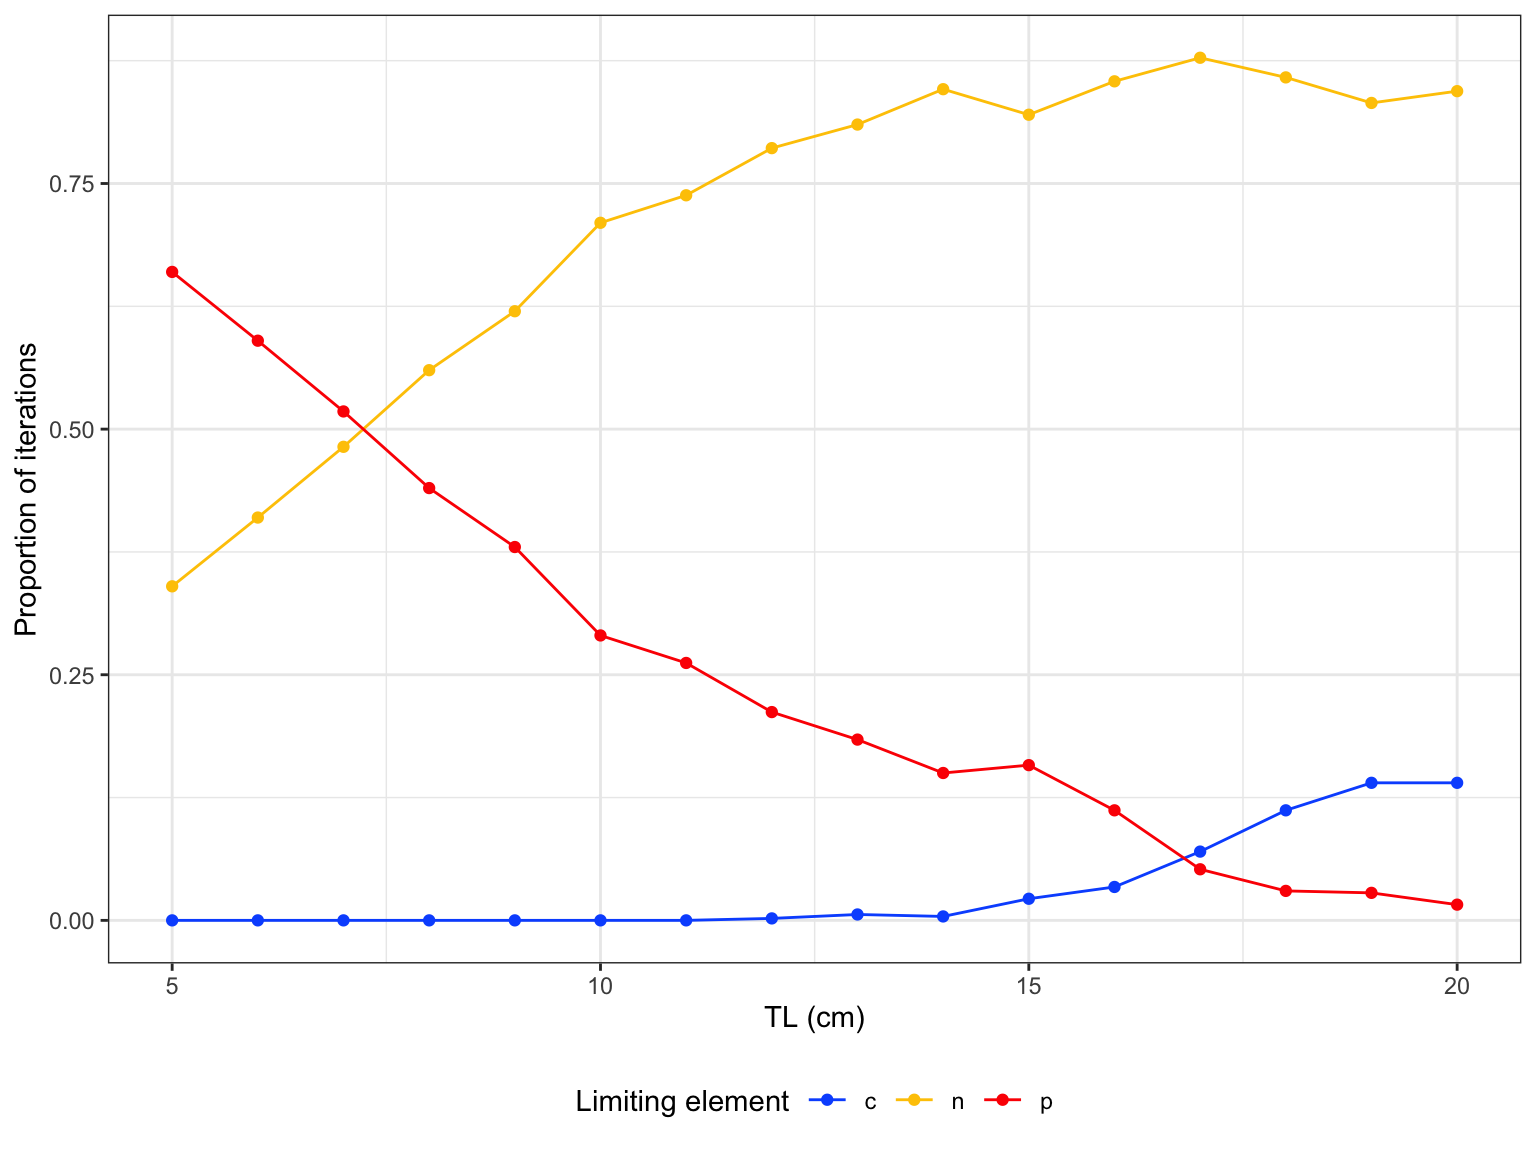
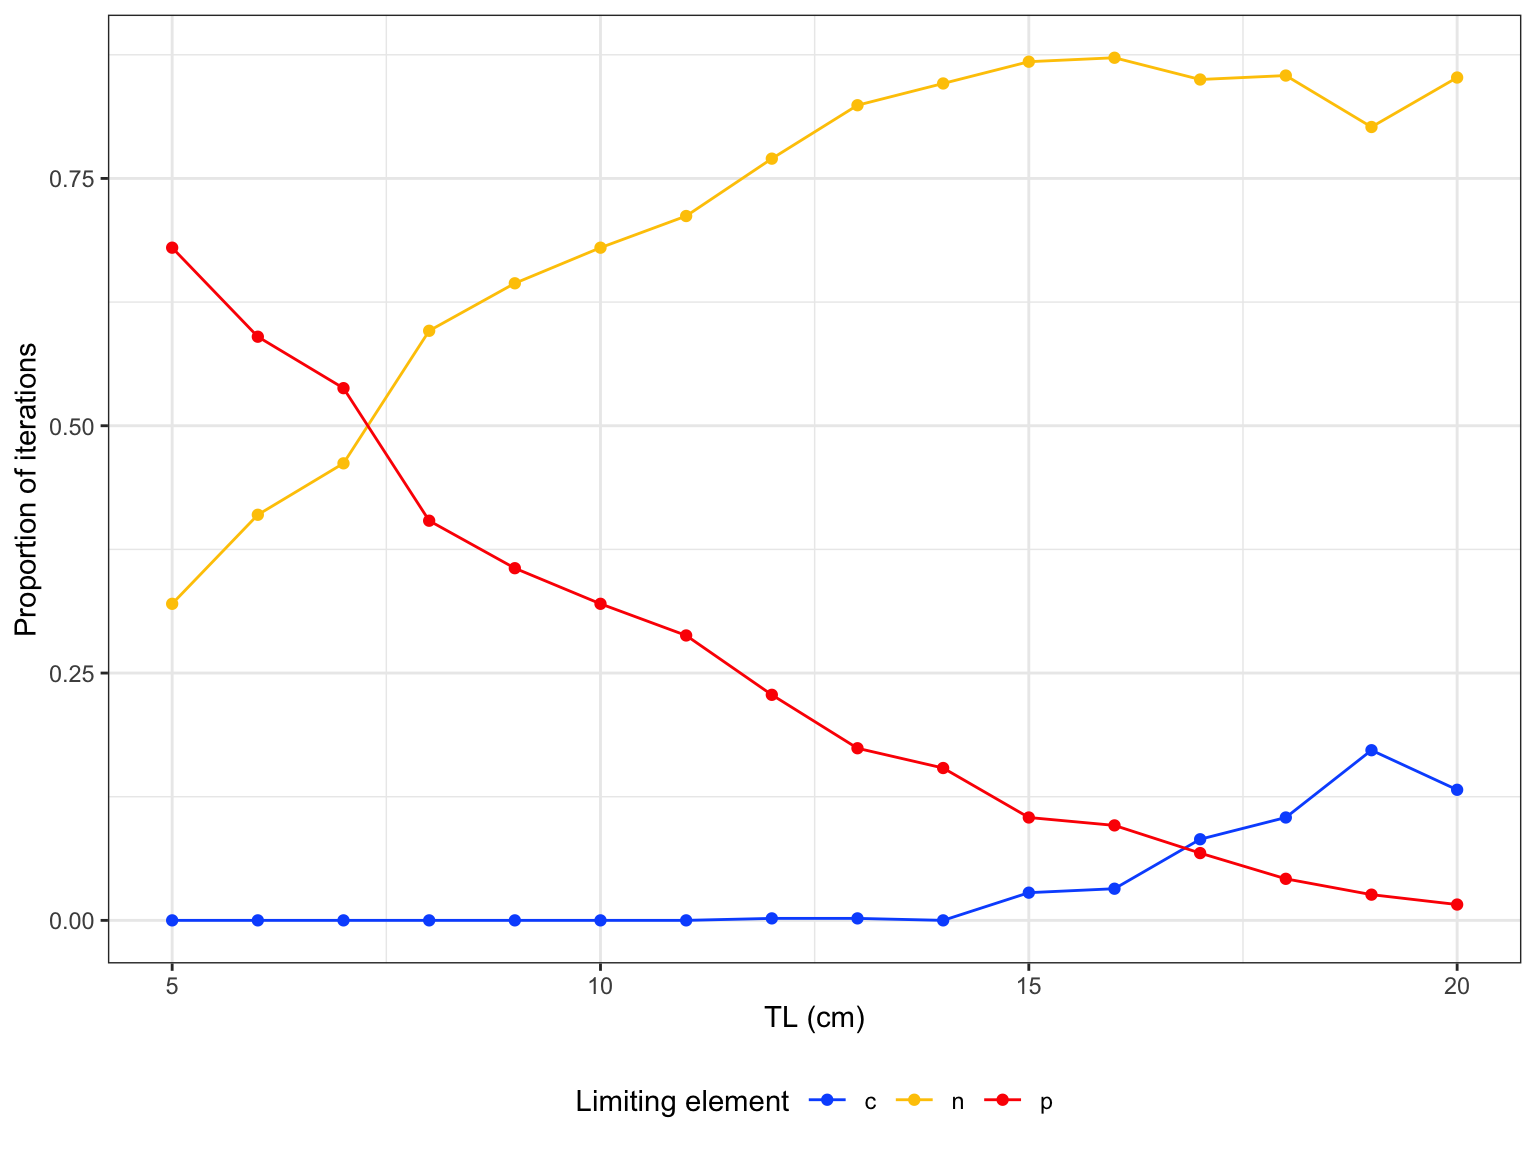
Built site for fishflux: 0.0.0.9001@748f23b

diff --git a/articles/intro_to_fishflux.html b/articles/intro_to_fishflux.html
@@ -411,7 +411,7 @@ Elemental stoichiometry of diet
 <span class="co">#&gt;            species    t0 Linf     k     asp troph   lwa_m      lwa_sd lwb_m</span>
 <span class="co">#&gt; 1 Zebrasoma scopas -0.49 13.3 0.425 2.02091     2 0.02455 0.002627551  2.98</span>
 <span class="co">#&gt;      lwb_sd     mdw_m        f0_m        f0_sd alpha_m   alpha_sd</span>
-<span class="co">#&gt; 1 0.0255102 0.2504833 0.001517989 3.251194e-10    0.77 0.05286288</span>
+<span class="co">#&gt; 1 0.0255102 0.2504833 0.001517989 2.990693e-10    0.77 0.05286288</span>
 </pre></div>
 
 <p>All other parameters have to be provided by the user. For more information on how to acquire these parameters, take a look at (“this paper” add reference to methods paper).</p>
@@ -432,56 +432,56 @@ Elemental stoichiometry of diet
 <div class="sourceCode" id="cb10"><pre class="downlit">
 <span class="kw">fishflux</span>::<span class="fu"><a href="../reference/extract.html">extract</a></span>(<span class="kw">model</span>, <span class="fu"><a href="https://rdrr.io/r/base/c.html">c</a></span>(<span class="st">"Fn"</span>,<span class="st">"Fp"</span>))
 <span class="co">#&gt;    TL      Fn_mean    Fn_median        Fn_sd      Fn_2.5%    Fn_97.5%</span>
-<span class="co">#&gt; 1   5 0.0009281694 0.0008659754 0.0004569311 0.0002199826 0.001956606</span>
-<span class="co">#&gt; 2   6 0.0012819426 0.0011783659 0.0005798542 0.0004133299 0.002684022</span>
-<span class="co">#&gt; 3   7 0.0018694803 0.0018053892 0.0008218627 0.0005521829 0.003561672</span>
-<span class="co">#&gt; 4   8 0.0025204011 0.0023085524 0.0012995009 0.0005735142 0.005840968</span>
-<span class="co">#&gt; 5   9 0.0033384245 0.0031103938 0.0016918953 0.0006539831 0.007254373</span>
-<span class="co">#&gt; 6  10 0.0046335154 0.0042371487 0.0023601917 0.0010801570 0.010350598</span>
-<span class="co">#&gt; 7  11 0.0057504984 0.0050394494 0.0031808788 0.0013548120 0.013801743</span>
-<span class="co">#&gt; 8  12 0.0073421369 0.0067742768 0.0041662015 0.0015701969 0.016894169</span>
-<span class="co">#&gt; 9  13 0.0088172976 0.0077278045 0.0053759257 0.0018505833 0.021089698</span>
-<span class="co">#&gt; 10 14 0.0114721462 0.0098725791 0.0069764626 0.0027319266 0.027900179</span>
-<span class="co">#&gt; 11 15 0.0135980894 0.0115994934 0.0093801412 0.0028752909 0.038594147</span>
-<span class="co">#&gt; 12 16 0.0168944415 0.0147250359 0.0105112084 0.0032385315 0.041179640</span>
-<span class="co">#&gt; 13 17 0.0196402448 0.0170246379 0.0121009149 0.0045326671 0.050115652</span>
-<span class="co">#&gt; 14 18 0.0233476791 0.0204928565 0.0150033839 0.0054589316 0.062057033</span>
-<span class="co">#&gt; 15 19 0.0273114734 0.0235886012 0.0175179466 0.0063404065 0.067872156</span>
-<span class="co">#&gt; 16 20 0.0325882222 0.0277891315 0.0202686529 0.0079621075 0.084653380</span>
+<span class="co">#&gt; 1   5 0.0008763567 0.0008331295 0.0004167009 0.0002072475 0.001907906</span>
+<span class="co">#&gt; 2   6 0.0013294734 0.0012461063 0.0006086608 0.0003783124 0.002673139</span>
+<span class="co">#&gt; 3   7 0.0018101258 0.0017019645 0.0008413234 0.0004574175 0.003700676</span>
+<span class="co">#&gt; 4   8 0.0025271018 0.0023627110 0.0011743480 0.0007489656 0.005372224</span>
+<span class="co">#&gt; 5   9 0.0033990373 0.0030055965 0.0017520733 0.0007828752 0.007566119</span>
+<span class="co">#&gt; 6  10 0.0045734343 0.0040848251 0.0024999963 0.0011298113 0.010709364</span>
+<span class="co">#&gt; 7  11 0.0056456881 0.0049372287 0.0031659493 0.0011797497 0.013463896</span>
+<span class="co">#&gt; 8  12 0.0070757019 0.0062076398 0.0041012942 0.0015956317 0.016736939</span>
+<span class="co">#&gt; 9  13 0.0090665556 0.0081424194 0.0050690225 0.0019019434 0.021660942</span>
+<span class="co">#&gt; 10 14 0.0114810399 0.0103014812 0.0068840912 0.0022389726 0.028566922</span>
+<span class="co">#&gt; 11 15 0.0139201547 0.0121157485 0.0087024063 0.0023993317 0.033438810</span>
+<span class="co">#&gt; 12 16 0.0164966394 0.0146687656 0.0106387784 0.0031582388 0.039702839</span>
+<span class="co">#&gt; 13 17 0.0203433363 0.0174205581 0.0131194557 0.0038856953 0.052750184</span>
+<span class="co">#&gt; 14 18 0.0242562107 0.0206060818 0.0160034828 0.0050163464 0.062154269</span>
+<span class="co">#&gt; 15 19 0.0262512104 0.0221188780 0.0172826840 0.0061043430 0.070251778</span>
+<span class="co">#&gt; 16 20 0.0311110634 0.0260610166 0.0195485788 0.0081087478 0.078452600</span>
 <span class="co">#&gt;          Fn_25%      Fn_75%      Fp_mean    Fp_median        Fp_sd      Fp_2.5%</span>
-<span class="co">#&gt; 1  0.0006098399 0.001177332 8.342372e-05 4.476996e-05 0.0001042289 2.442238e-06</span>
-<span class="co">#&gt; 2  0.0008765401 0.001625477 1.624133e-04 8.568733e-05 0.0001878046 5.370838e-06</span>
-<span class="co">#&gt; 3  0.0012444900 0.002383563 2.742967e-04 1.507626e-04 0.0002938958 8.982261e-06</span>
-<span class="co">#&gt; 4  0.0016463066 0.003167944 4.756463e-04 2.815605e-04 0.0004991528 1.642529e-05</span>
-<span class="co">#&gt; 5  0.0021497741 0.004190879 7.368006e-04 4.785230e-04 0.0006974520 3.028640e-05</span>
-<span class="co">#&gt; 6  0.0029549240 0.005928661 1.134010e-03 8.512178e-04 0.0009566593 5.010628e-05</span>
-<span class="co">#&gt; 7  0.0033379343 0.007377014 1.547431e-03 1.170286e-03 0.0012673631 1.144489e-04</span>
-<span class="co">#&gt; 8  0.0039461089 0.009955279 2.140757e-03 1.773340e-03 0.0016909116 1.718569e-04</span>
-<span class="co">#&gt; 9  0.0047229149 0.011768260 2.716215e-03 2.195573e-03 0.0021140953 1.954099e-04</span>
-<span class="co">#&gt; 10 0.0060890675 0.015629586 3.805222e-03 3.086531e-03 0.0028227781 4.221331e-04</span>
-<span class="co">#&gt; 11 0.0063229858 0.018261827 4.705750e-03 3.869831e-03 0.0037605951 4.365811e-04</span>
-<span class="co">#&gt; 12 0.0085259859 0.023272454 6.105803e-03 5.215040e-03 0.0041804130 6.826402e-04</span>
-<span class="co">#&gt; 13 0.0099568078 0.026725322 7.375689e-03 6.234409e-03 0.0048734543 1.271907e-03</span>
-<span class="co">#&gt; 14 0.0119001184 0.031605635 9.060092e-03 7.827924e-03 0.0060207850 1.877304e-03</span>
-<span class="co">#&gt; 15 0.0127908758 0.038023313 1.084308e-02 9.309632e-03 0.0069654747 2.525014e-03</span>
-<span class="co">#&gt; 16 0.0162165097 0.043851835 1.296883e-02 1.117617e-02 0.0080593285 3.201843e-03</span>
+<span class="co">#&gt; 1  0.0005623215 0.001128193 7.996274e-05 4.308892e-05 9.977273e-05 2.157825e-06</span>
+<span class="co">#&gt; 2  0.0008862085 0.001692969 1.653318e-04 8.408587e-05 1.998154e-04 5.757661e-06</span>
+<span class="co">#&gt; 3  0.0012342375 0.002225683 2.735513e-04 1.525167e-04 3.165720e-04 6.886496e-06</span>
+<span class="co">#&gt; 4  0.0016848813 0.003184619 4.806026e-04 3.085175e-04 4.544232e-04 2.517127e-05</span>
+<span class="co">#&gt; 5  0.0021727430 0.004344851 7.434778e-04 4.929182e-04 7.175206e-04 2.923487e-05</span>
+<span class="co">#&gt; 6  0.0028002469 0.005729464 1.145684e-03 8.470945e-04 1.029037e-03 5.646100e-05</span>
+<span class="co">#&gt; 7  0.0035088002 0.007249966 1.524971e-03 1.146028e-03 1.307217e-03 1.231598e-04</span>
+<span class="co">#&gt; 8  0.0038846786 0.009600751 2.022426e-03 1.611760e-03 1.635731e-03 1.300584e-04</span>
+<span class="co">#&gt; 9  0.0053763443 0.011746096 2.841015e-03 2.445621e-03 2.085214e-03 1.764827e-04</span>
+<span class="co">#&gt; 10 0.0060497900 0.015597567 3.837913e-03 3.247272e-03 2.838676e-03 3.044507e-04</span>
+<span class="co">#&gt; 11 0.0071941565 0.019149577 4.847549e-03 4.103347e-03 3.446770e-03 4.079099e-04</span>
+<span class="co">#&gt; 12 0.0079233972 0.022802532 6.016364e-03 5.216510e-03 4.219291e-03 8.488957e-04</span>
+<span class="co">#&gt; 13 0.0101005867 0.027379664 7.679389e-03 6.483849e-03 5.251495e-03 1.139482e-03</span>
+<span class="co">#&gt; 14 0.0118363459 0.032603021 9.407792e-03 8.099976e-03 6.389119e-03 1.745634e-03</span>
+<span class="co">#&gt; 15 0.0128045353 0.035209224 1.046295e-02 8.692670e-03 6.926892e-03 2.395613e-03</span>
+<span class="co">#&gt; 16 0.0155668219 0.041216910 1.234885e-02 1.035470e-02 7.740718e-03 3.180427e-03</span>
 <span class="co">#&gt;        Fp_97.5%       Fp_25%       Fp_75%</span>
-<span class="co">#&gt; 1  0.0003636682 2.309581e-05 9.173055e-05</span>
-<span class="co">#&gt; 2  0.0006584219 4.336034e-05 2.169618e-04</span>
-<span class="co">#&gt; 3  0.0010934448 7.243350e-05 3.930033e-04</span>
-<span class="co">#&gt; 4  0.0017098075 1.337231e-04 6.617568e-04</span>
-<span class="co">#&gt; 5  0.0025167948 2.016068e-04 1.160095e-03</span>
-<span class="co">#&gt; 6  0.0035044677 3.854189e-04 1.654114e-03</span>
-<span class="co">#&gt; 7  0.0046112883 5.160084e-04 2.276485e-03</span>
-<span class="co">#&gt; 8  0.0060888384 7.168290e-04 3.096195e-03</span>
-<span class="co">#&gt; 9  0.0078415927 1.126542e-03 3.830504e-03</span>
-<span class="co">#&gt; 10 0.0106340646 1.642232e-03 5.380117e-03</span>
-<span class="co">#&gt; 11 0.0141158779 1.737974e-03 6.634556e-03</span>
-<span class="co">#&gt; 12 0.0161140540 2.758546e-03 8.751484e-03</span>
-<span class="co">#&gt; 13 0.0193733987 3.475924e-03 1.032715e-02</span>
-<span class="co">#&gt; 14 0.0241340519 4.352340e-03 1.230944e-02</span>
-<span class="co">#&gt; 15 0.0264322444 5.051853e-03 1.519994e-02</span>
-<span class="co">#&gt; 16 0.0334280069 6.451905e-03 1.766444e-02</span>
+<span class="co">#&gt; 1  0.0003651642 2.357287e-05 8.976973e-05</span>
+<span class="co">#&gt; 2  0.0007197461 4.415683e-05 2.155140e-04</span>
+<span class="co">#&gt; 3  0.0011222137 6.814511e-05 3.577008e-04</span>
+<span class="co">#&gt; 4  0.0016177419 1.451713e-04 7.194441e-04</span>
+<span class="co">#&gt; 5  0.0026456524 2.146887e-04 1.096622e-03</span>
+<span class="co">#&gt; 6  0.0040716694 3.633162e-04 1.669569e-03</span>
+<span class="co">#&gt; 7  0.0046805878 4.948769e-04 2.268588e-03</span>
+<span class="co">#&gt; 8  0.0059286410 7.052732e-04 3.000828e-03</span>
+<span class="co">#&gt; 9  0.0076947013 1.165106e-03 4.039465e-03</span>
+<span class="co">#&gt; 10 0.0106848660 1.502793e-03 5.435427e-03</span>
+<span class="co">#&gt; 11 0.0126911552 2.061099e-03 7.131592e-03</span>
+<span class="co">#&gt; 12 0.0152947351 2.644750e-03 8.594434e-03</span>
+<span class="co">#&gt; 13 0.0209455922 3.554130e-03 1.053072e-02</span>
+<span class="co">#&gt; 14 0.0246698682 4.414900e-03 1.255352e-02</span>
+<span class="co">#&gt; 15 0.0274820579 4.967663e-03 1.400364e-02</span>
+<span class="co">#&gt; 16 0.0313638050 6.217369e-03 1.642787e-02</span>
 </pre></div>
 
 </div>
@@ -503,45 +503,45 @@ Elemental stoichiometry of diet
 #&gt; 6  10        c    0.000
 #&gt; 7  11        c    0.000
 #&gt; 8  12        c    0.002
-#&gt; 9  13        c    0.006
-#&gt; 10 14        c    0.004
-#&gt; 11 15        c    0.022
-#&gt; 12 16        c    0.034
-#&gt; 13 17        c    0.070
-#&gt; 14 18        c    0.112
-#&gt; 15 19        c    0.140
-#&gt; 16 20        c    0.140
-#&gt; 17  5        n    0.340
+#&gt; 9  13        c    0.002
+#&gt; 10 14        c    0.000
+#&gt; 11 15        c    0.028
+#&gt; 12 16        c    0.032
+#&gt; 13 17        c    0.082
+#&gt; 14 18        c    0.104
+#&gt; 15 19        c    0.172
+#&gt; 16 20        c    0.132
+#&gt; 17  5        n    0.320
 #&gt; 18  6        n    0.410
-#&gt; 19  7        n    0.482
-#&gt; 20  8        n    0.560
-#&gt; 21  9        n    0.620
-#&gt; 22 10        n    0.710
-#&gt; 23 11        n    0.738
-#&gt; 24 12        n    0.786
-#&gt; 25 13        n    0.810
+#&gt; 19  7        n    0.462
+#&gt; 20  8        n    0.596
+#&gt; 21  9        n    0.644
+#&gt; 22 10        n    0.680
+#&gt; 23 11        n    0.712
+#&gt; 24 12        n    0.770
+#&gt; 25 13        n    0.824
 #&gt; 26 14        n    0.846
-#&gt; 27 15        n    0.820
-#&gt; 28 16        n    0.854
-#&gt; 29 17        n    0.878
-#&gt; 30 18        n    0.858
-#&gt; 31 19        n    0.832
-#&gt; 32 20        n    0.844
-#&gt; 33  5        p    0.660
+#&gt; 27 15        n    0.868
+#&gt; 28 16        n    0.872
+#&gt; 29 17        n    0.850
+#&gt; 30 18        n    0.854
+#&gt; 31 19        n    0.802
+#&gt; 32 20        n    0.852
+#&gt; 33  5        p    0.680
 #&gt; 34  6        p    0.590
-#&gt; 35  7        p    0.518
-#&gt; 36  8        p    0.440
-#&gt; 37  9        p    0.380
-#&gt; 38 10        p    0.290
-#&gt; 39 11        p    0.262
-#&gt; 40 12        p    0.212
-#&gt; 41 13        p    0.184
-#&gt; 42 14        p    0.150
-#&gt; 43 15        p    0.158
-#&gt; 44 16        p    0.112
-#&gt; 45 17        p    0.052
-#&gt; 46 18        p    0.030
-#&gt; 47 19        p    0.028
+#&gt; 35  7        p    0.538
+#&gt; 36  8        p    0.404
+#&gt; 37  9        p    0.356
+#&gt; 38 10        p    0.320
+#&gt; 39 11        p    0.288
+#&gt; 40 12        p    0.228
+#&gt; 41 13        p    0.174
+#&gt; 42 14        p    0.154
+#&gt; 43 15        p    0.104
+#&gt; 44 16        p    0.096
+#&gt; 45 17        p    0.068
+#&gt; 46 18        p    0.042
+#&gt; 47 19        p    0.026
 #&gt; 48 20        p    0.016
 ## Plot one variable:
 fishflux::plot_cnp(model,  y = "Fp", x = "tl", probs = c(0.5, 0.8, 0.95))</a></code></pre>
@@ -562,11 +562,11 @@ fishflux::plot_cnp(model,  y = "Fp", x = "tl", probs = c(0.5, 0.8, 0.95))</a></c
 </pre></div>
 <p><img src="intro_to_fishflux_files/figure-html/unnamed-chunk-10-1.png" width="768"></p>
 <pre><code>#&gt;              Fn_CI        Fp_CI        Ic_CI
-#&gt; Dn_sd 1.990538e-10 0.0002590937 9.253345e-03
-#&gt; Dp_sd 1.884552e-10 0.0008074567 1.982663e-09
-#&gt; Qn_sd 2.025775e-03 0.0007905962 2.823558e-02
-#&gt; Qp_sd 2.024427e-10 0.0007396764 2.060859e-09
-#&gt; k_sd  1.959368e-10 0.0001082031 1.040415e-02</code></pre>
+#&gt; Dn_sd 2.109878e-10 0.0002648946 9.460522e-03
+#&gt; Dp_sd 1.901099e-10 0.0007975301 1.976839e-09
+#&gt; Qn_sd 1.912428e-03 0.0007463603 2.665572e-02
+#&gt; Qp_sd 1.969249e-10 0.0006762772 2.072392e-09
+#&gt; k_sd  1.992730e-10 0.0001077154 1.035725e-02</code></pre>
 
 </div>
 </div>

diff --git a/reference/extract.html b/reference/extract.html
@@ -174,19 +174,19 @@
     <h2 class="hasAnchor" id="examples"><a class="anchor" href="#examples"></a>Examples</h2>
     <pre class="examples"><div class='input'><span class='kw'>model</span> <span class='op'>&lt;-</span> <span class='fu'><a href='https://rdrr.io/pkg/fishflux/man/cnp_model_mcmc.html'>cnp_model_mcmc</a></span>(TL = <span class='fl'>5</span><span class='op'>:</span><span class='fl'>10</span>, param = <span class='fu'><a href='https://rdrr.io/r/base/list.html'>list</a></span>(Qc_m = <span class='fl'>40</span>, Qn_m = <span class='fl'>10</span>, Qp_m = <span class='fl'>4</span>))
 <span class='fu'><a href='https://rdrr.io/pkg/fishflux/man/extract.html'>extract</a></span>(<span class='kw'>model</span>, <span class='fu'><a href='https://rdrr.io/r/base/c.html'>c</a></span>(<span class='st'>"Fn"</span>,<span class='st'>"Fp"</span>))</div><div class='output co'>#&gt;   TL      Fn_mean    Fn_median        Fn_sd      Fn_2.5%     Fn_97.5%
-#&gt; 1  5 0.0006047886 0.0006047886 6.190406e-12 0.0006047886 0.0006047886
-#&gt; 2  6 0.0010610097 0.0010610097 1.008557e-11 0.0010610097 0.0010610097
-#&gt; 3  7 0.0017065393 0.0017065393 1.765377e-11 0.0017065393 0.0017065394
-#&gt; 4  8 0.0025757605 0.0025757605 2.526267e-11 0.0025757604 0.0025757605
-#&gt; 5  9 0.0037034689 0.0037034689 3.741374e-11 0.0037034688 0.0037034690
-#&gt; 6 10 0.0051248251 0.0051248251 4.943002e-11 0.0051248250 0.0051248252
+#&gt; 1  5 0.0006047886 0.0006047886 5.936782e-12 0.0006047886 0.0006047886
+#&gt; 2  6 0.0010610097 0.0010610097 1.087353e-11 0.0010610097 0.0010610097
+#&gt; 3  7 0.0017065393 0.0017065393 1.644702e-11 0.0017065393 0.0017065394
+#&gt; 4  8 0.0025757605 0.0025757605 2.654003e-11 0.0025757604 0.0025757605
+#&gt; 5  9 0.0037034689 0.0037034689 3.684001e-11 0.0037034688 0.0037034690
+#&gt; 6 10 0.0051248251 0.0051248251 5.279054e-11 0.0051248250 0.0051248252
 #&gt;         Fn_25%       Fn_75%      Fp_mean    Fp_median        Fp_sd      Fp_2.5%
-#&gt; 1 0.0006047886 0.0006047886 0.0001097965 0.0001097965 1.802891e-12 0.0001097965
-#&gt; 2 0.0010610097 0.0010610097 0.0002186548 0.0002186548 2.933919e-12 0.0002186548
-#&gt; 3 0.0017065393 0.0017065394 0.0003815567 0.0003815567 5.148087e-12 0.0003815567
-#&gt; 4 0.0025757605 0.0025757605 0.0006096826 0.0006096826 7.370153e-12 0.0006096826
-#&gt; 5 0.0037034689 0.0037034689 0.0009143614 0.0009143614 1.092804e-11 0.0009143614
-#&gt; 6 0.0051248250 0.0051248251 0.0013070515 0.0013070515 1.440788e-11 0.0013070515
+#&gt; 1 0.0006047886 0.0006047886 0.0001097965 0.0001097965 1.720275e-12 0.0001097965
+#&gt; 2 0.0010610097 0.0010610097 0.0002186548 0.0002186548 3.170711e-12 0.0002186548
+#&gt; 3 0.0017065393 0.0017065393 0.0003815567 0.0003815567 4.802289e-12 0.0003815567
+#&gt; 4 0.0025757605 0.0025757605 0.0006096826 0.0006096826 7.739894e-12 0.0006096826
+#&gt; 5 0.0037034689 0.0037034689 0.0009143614 0.0009143614 1.072914e-11 0.0009143614
+#&gt; 6 0.0051248250 0.0051248251 0.0013070515 0.0013070515 1.537532e-11 0.0013070515
 #&gt;       Fp_97.5%       Fp_25%       Fp_75%
 #&gt; 1 0.0001097965 0.0001097965 0.0001097965
 #&gt; 2 0.0002186548 0.0002186548 0.0002186548

diff --git a/reference/sensitivity.html b/reference/sensitivity.html
@@ -176,9 +176,9 @@ Plots a heatplot with width of the 95<!-- %CI of output predictions. --></p>
     <pre class="examples"><div class='input'><span class='fu'><a href='https://rdrr.io/r/base/library.html'>library</a></span>(<span class='kw'><a href='https://nschiett.github.io/fishflux'>fishflux</a></span>)
 <span class='fu'><a href='https://rdrr.io/pkg/fishflux/man/sensitivity.html'>sensitivity</a></span>(TL = <span class='fl'>10</span>, param = <span class='fu'><a href='https://rdrr.io/r/base/list.html'>list</a></span>(k_sd = <span class='fl'>0.2</span>, Dn_sd = <span class='fl'>0.2</span>, Dc_sd = <span class='fl'>0.1</span>),
             par = <span class='fu'><a href='https://rdrr.io/r/base/c.html'>c</a></span>(<span class='st'>"k_sd"</span>,<span class='st'>"Dn_sd"</span>,<span class='st'>"Dc_sd"</span>), out = <span class='fu'><a href='https://rdrr.io/r/base/c.html'>c</a></span>(<span class='st'>"Ic"</span>, <span class='st'>"In"</span>, <span class='st'>"Ip"</span>, <span class='st'>"Gc"</span>))</div><div class='output co'>#&gt; <span class='message'>Joining, by = "key"</span></div><div class='img'><img src='sensitivity-1.png' alt='' width='700' height='433' /></div><div class='output co'>#&gt;            Ic_CI        In_CI        Ip_CI        Gc_CI
-#&gt; k_sd  0.03087294 3.704753e-03 1.234918e-03 1.185521e-02
-#&gt; Dn_sd 0.21078069 4.744706e-03 8.431228e-03 7.335894e-11
-#&gt; Dc_sd 0.01066133 2.523668e-10 8.421826e-11 7.014613e-11</div><div class='input'></div></pre>
+#&gt; k_sd  0.03162443 3.794931e-03 1.264977e-03 1.214378e-02
+#&gt; Dn_sd 0.28513597 4.982573e-03 1.140544e-02 7.684180e-11
+#&gt; Dc_sd 0.01096698 2.470139e-10 8.263585e-11 7.279494e-11</div><div class='input'></div></pre>
   </div>
   <div class="col-md-3 hidden-xs hidden-sm" id="pkgdown-sidebar">
     <nav id="toc" data-toggle="toc" class="sticky-top">

diff --git a/reference/limitation.html b/reference/limitation.html
@@ -172,8 +172,8 @@
 #&gt; Chain 1: Iteration: 1000 / 1000 [100%]  (Sampling)
 #&gt; Chain 1: 
 #&gt; Chain 1:  Elapsed Time: 0 seconds (Warm-up)
-#&gt; Chain 1:                0.014086 seconds (Sampling)
-#&gt; Chain 1:                0.014086 seconds (Total)
+#&gt; Chain 1:                0.01342 seconds (Sampling)
+#&gt; Chain 1:                0.01342 seconds (Total)
 #&gt; Chain 1: </div><div class='input'><span class='fu'><a href='https://rdrr.io/pkg/fishflux/man/limitation.html'>limitation</a></span>(<span class='kw'>mod</span>)</div><div class='output co'>#&gt; <span class='message'>geom_path: Each group consists of only one observation. Do you need to adjust</span>
 #&gt; <span class='message'>the group aesthetic?</span></div><div class='img'><img src='limitation-1.png' alt='' width='700' height='433' /></div><div class='output co'>#&gt;   tl nutrient prop_lim
 #&gt; 1  5        c    0.000

diff --git a/reference/model_parameters.html b/reference/model_parameters.html
@@ -177,8 +177,8 @@
 #&gt; Chain 1: Iteration: 1000 / 1000 [100%]  (Sampling)
 #&gt; Chain 1: 
 #&gt; Chain 1:  Elapsed Time: 0 seconds (Warm-up)
-#&gt; Chain 1:                0.001448 seconds (Sampling)
-#&gt; Chain 1:                0.001448 seconds (Total)
+#&gt; Chain 1:                0.001402 seconds (Sampling)
+#&gt; Chain 1:                0.001402 seconds (Total)
 #&gt; Chain 1: </div><div class='output co'>#&gt;            species      t0  Linf     k     asp troph   lwa_m      lwa_sd lwb_m
 #&gt; 1 Scarus psittacus -0.6025 23.05 0.814 1.80877     2 0.01585 0.001760204  3.06
 #&gt;       lwb_sd     mdw_m        f0_m        f0_sd alpha_m   alpha_sd

diff --git a/reference/metabolism.html b/reference/metabolism.html
@@ -181,8 +181,8 @@ a covariate.</p>
 #&gt; Chain 1: Iteration: 1000 / 1000 [100%]  (Sampling)
 #&gt; Chain 1: 
 #&gt; Chain 1:  Elapsed Time: 0 seconds (Warm-up)
-#&gt; Chain 1:                0.001479 seconds (Sampling)
-#&gt; Chain 1:                0.001479 seconds (Total)
+#&gt; Chain 1:                0.001423 seconds (Sampling)
+#&gt; Chain 1:                0.001423 seconds (Total)
 #&gt; Chain 1: </div><div class='output co'>#&gt;          f0_m       f0_sd   alpha_m  alpha_sd        b0_m        b0_sd
 #&gt; 1 0.004528457 0.002004058 0.4256931 0.1035894 0.001415727 0.0006612888</div><div class='input'></div></pre>
   </div>

diff --git a/reference/cnp_model_mcmc.html b/reference/cnp_model_mcmc.html
@@ -213,8 +213,8 @@ Qc_m = <span class='fl'>40</span>, Qn_m = <span class='fl'>10</span>, Qp_m = <sp
 #&gt; Chain 1: Iteration: 1000 / 1000 [100%]  (Sampling)
 #&gt; Chain 1: 
 #&gt; Chain 1:  Elapsed Time: 0 seconds (Warm-up)
-#&gt; Chain 1:                0.013998 seconds (Sampling)
-#&gt; Chain 1:                0.013998 seconds (Total)
+#&gt; Chain 1:                0.013845 seconds (Sampling)
+#&gt; Chain 1:                0.013845 seconds (Total)
 #&gt; Chain 1: </div><div class='input'></div></pre>
   </div>
   <div class="col-md-3 hidden-xs hidden-sm" id="pkgdown-sidebar">
